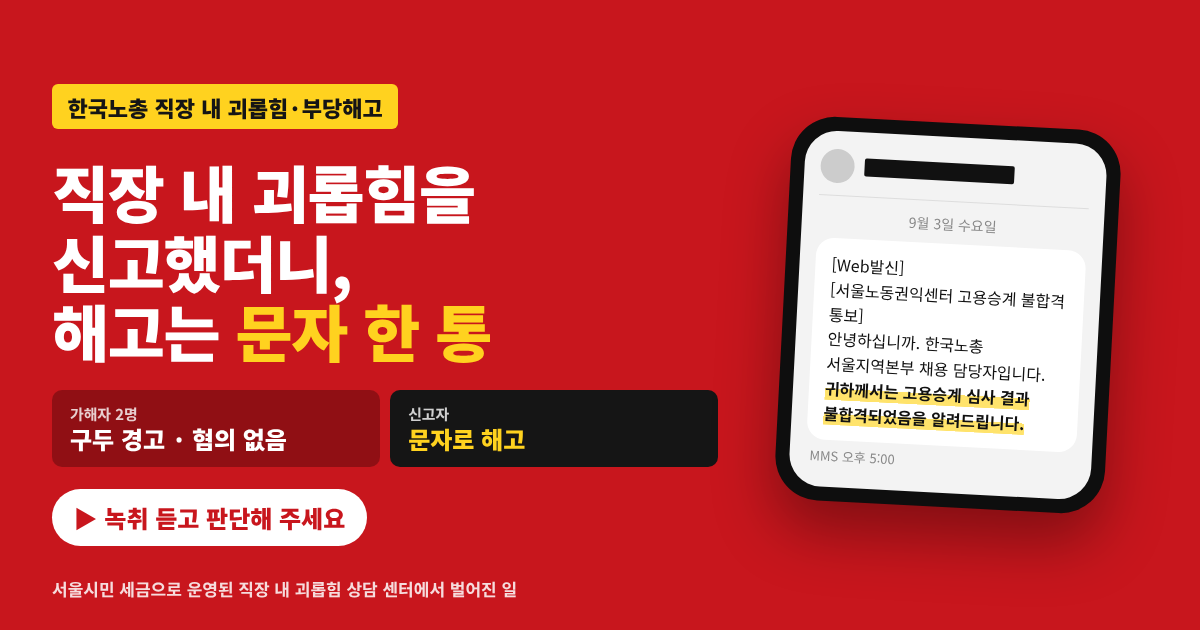
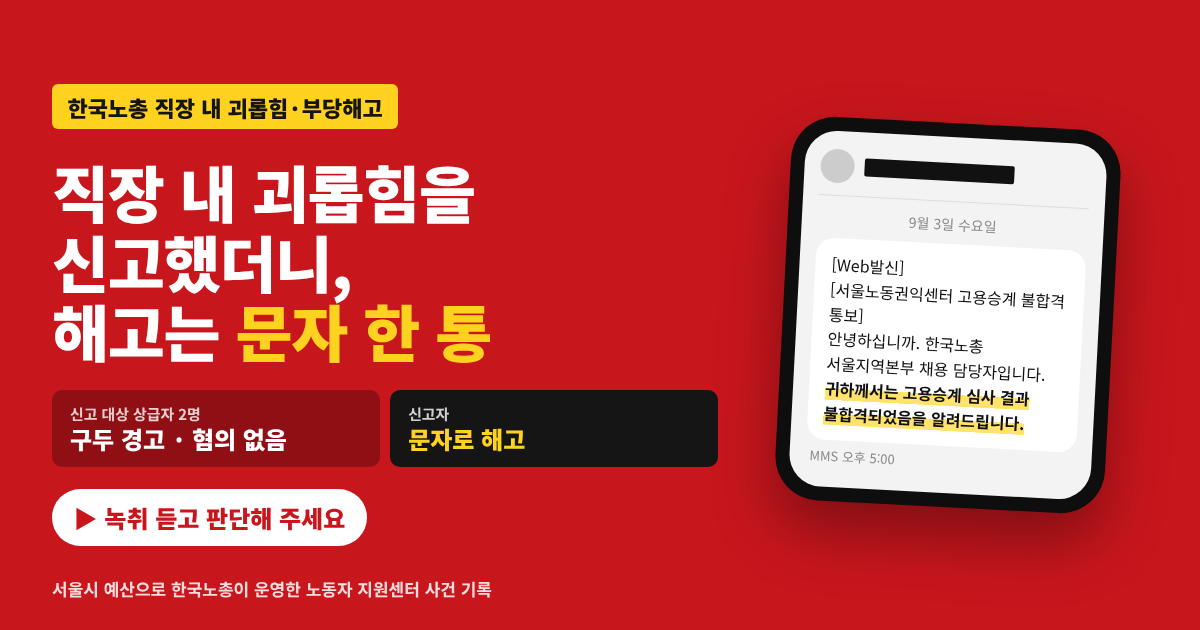
hk-harassment: neutral wording on share images
Claude-Session: https://claude.ai/code/session_01Tz8GkX6HqMceEiUensbDRE

Changed region(s): [[0.0617, 0.9048, 0.4317, 0.9651], [0.0617, 0.6333, 0.185, 0.6937]]

diff --git a/hk-harassment/index.html b/hk-harassment/index.html
@@ -8,11 +8,11 @@
 <meta property="og:url" content="https://yky1234x.github.io/jeongdong/hk-harassment/">
 <meta property="og:title" content="직장 내 괴롭힘을 신고한 뒤, 해고는 문자 한 통으로 왔습니다">
 <meta property="og:description" content="한국노총 직장 내 괴롭힘·부당해고 사건 기록. 문서와 녹취를 직접 보고 판단해 주세요.">
-<meta property="og:image" content="https://yky1234x.github.io/jeongdong/hk-harassment/share.jpg?v=20261123b">
+<meta property="og:image" content="https://yky1234x.github.io/jeongdong/hk-harassment/share.jpg?v=20261123c">
 <meta property="og:image:width" content="1200">
 <meta property="og:image:height" content="630">
 <meta name="twitter:card" content="summary_large_image">
-<meta name="twitter:image" content="https://yky1234x.github.io/jeongdong/hk-harassment/share.jpg?v=20261123b">
+<meta name="twitter:image" content="https://yky1234x.github.io/jeongdong/hk-harassment/share.jpg?v=20261123c">
 <title>직장 내 괴롭힘 신고, 문자 한 통 해고</title>
 <link rel="preconnect" href="https://fonts.googleapis.com">
 <link href="https://fonts.googleapis.com/css2?family=Black+Han+Sans&family=Noto+Sans+KR:wght@400;500;700;900&display=swap" rel="stylesheet">
